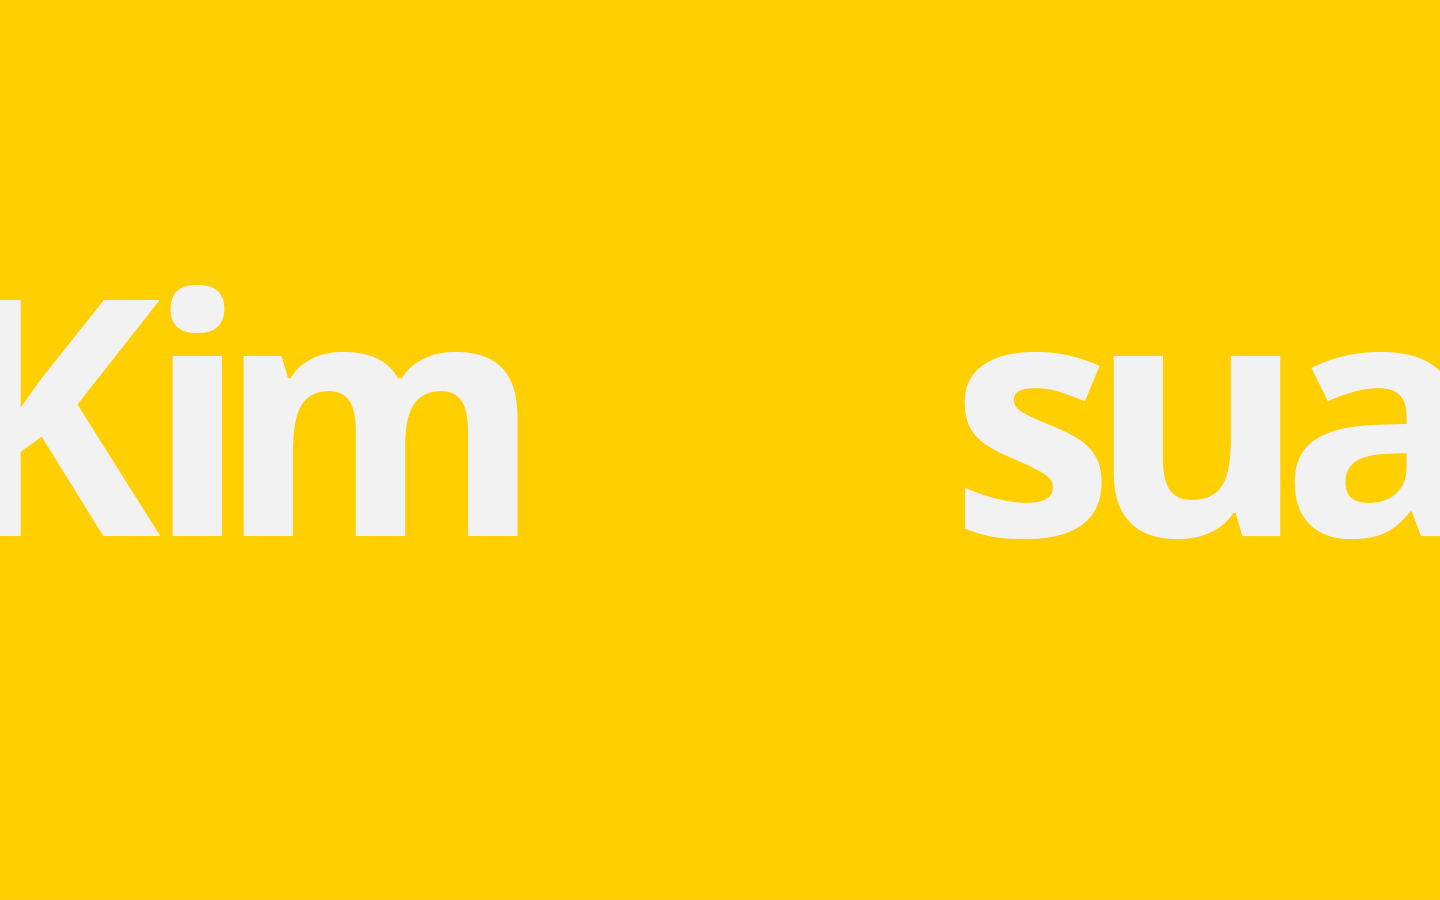
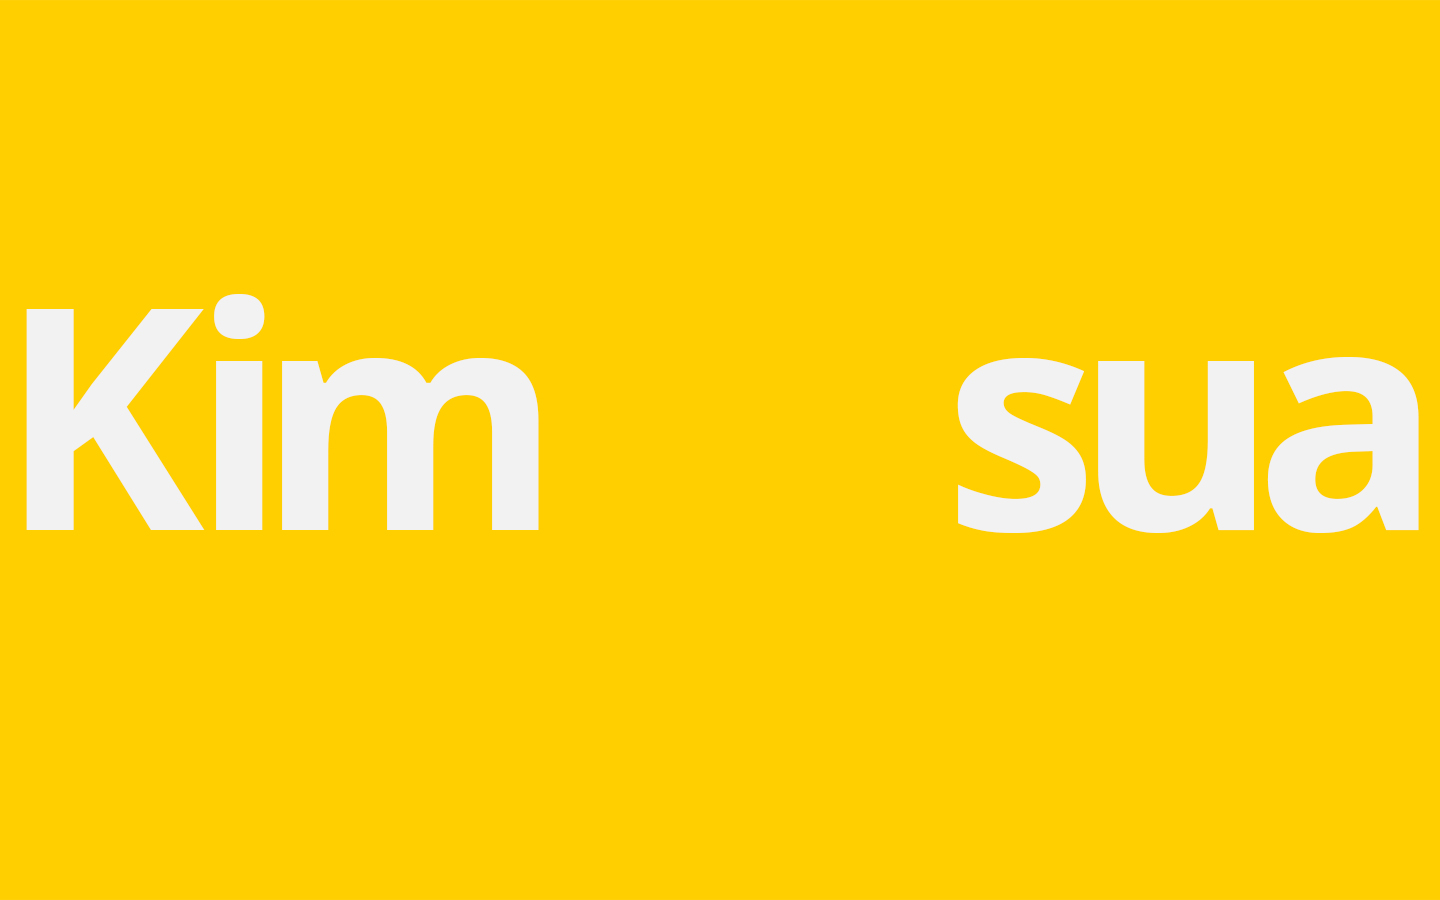
about

Changed region(s): [[0.0, 0.3111, 0.375, 0.6222], [0.6562, 0.3733, 1.0, 0.6222]]

diff --git a/stylesheets/styles.css b/stylesheets/styles.css
@@ -1,3 +1,81 @@
+@media (min-width: 800px) {
+    #about {
+        
+        display: box;
+        box-pack: center;
+        box-align: center;
+
+        display: -webkit-box;
+        -webkit-box-pack: center;
+        -webkit-box-align: center;
+
+        text-align: center;
+        position: relative;
+        height: 100%;
+        
+        text-align: center;
+        background-color: #ffcf00;  
+        position: relative;
+        height: 100%;
+        background-image: url(/images/bg_about.jpg);
+        background-repeat: no-repeat;
+        background-size: cover;
+        background-position: center;
+    }
+    
+}
+
+@media (max-width: 480px) {
+    #about {
+        display: box;
+        box-pack: center;
+        box-align: center;
+
+        display: -webkit-box;
+        -webkit-box-pack: center;
+        -webkit-box-align: center;
+
+        text-align: center;
+        position: relative;
+        height: 100%;
+    }
+
+    #about img {
+        width: 100%;
+        vertical-align: middle;
+    }
+}
+
+@media (min-width: 800px) {
+    #speciality {
+        
+        display: box;
+        box-pack: center;
+        box-align: center;
+
+        display: -webkit-box;
+        -webkit-box-pack: center;
+        -webkit-box-align: center;
+
+        text-align: center;
+        position: relative;
+        height: 100%;
+        
+        text-align: center;
+        background-color: #2cd7e0;  
+        position: relative;
+        height: 100%;
+        background-image: url(/images/bg_speciality.jpg);
+        background-repeat: no-repeat;
+        background-size: cover;
+        background-position: center;
+    }
+    
+}
+
+
+
+
 html, body {
     margin: 0px;
     height: 100%;
@@ -19,18 +97,9 @@ html, body {
     height: 100%;
 }
 
-.img2{
-    margin-top: 200px;
-    z-index: 1;
-}
 
-.img1{
-    position: absolute;
-    margin-top: 50px;
-    left: 50%;
-    margin-left: -250px;
-    z-index: 2;
-}
+
+
 
 #speciality {
     display: flex;
@@ -40,6 +109,9 @@ html, body {
 #speciality img{
     flex: 1;
 }
+
+
+
 
 #works {
     display: flex;

diff --git a/index.html b/index.html
@@ -15,7 +15,7 @@
     <body>
         <div class="container">
             <section id="about">
-                <img class="img2" src="images/kimsua.png">
+<!--                <img class="img2" src="images/kimsua.png">-->
                 <img class="img1" src="images/img_about.png">
             </section>
             <section id="speciality">
